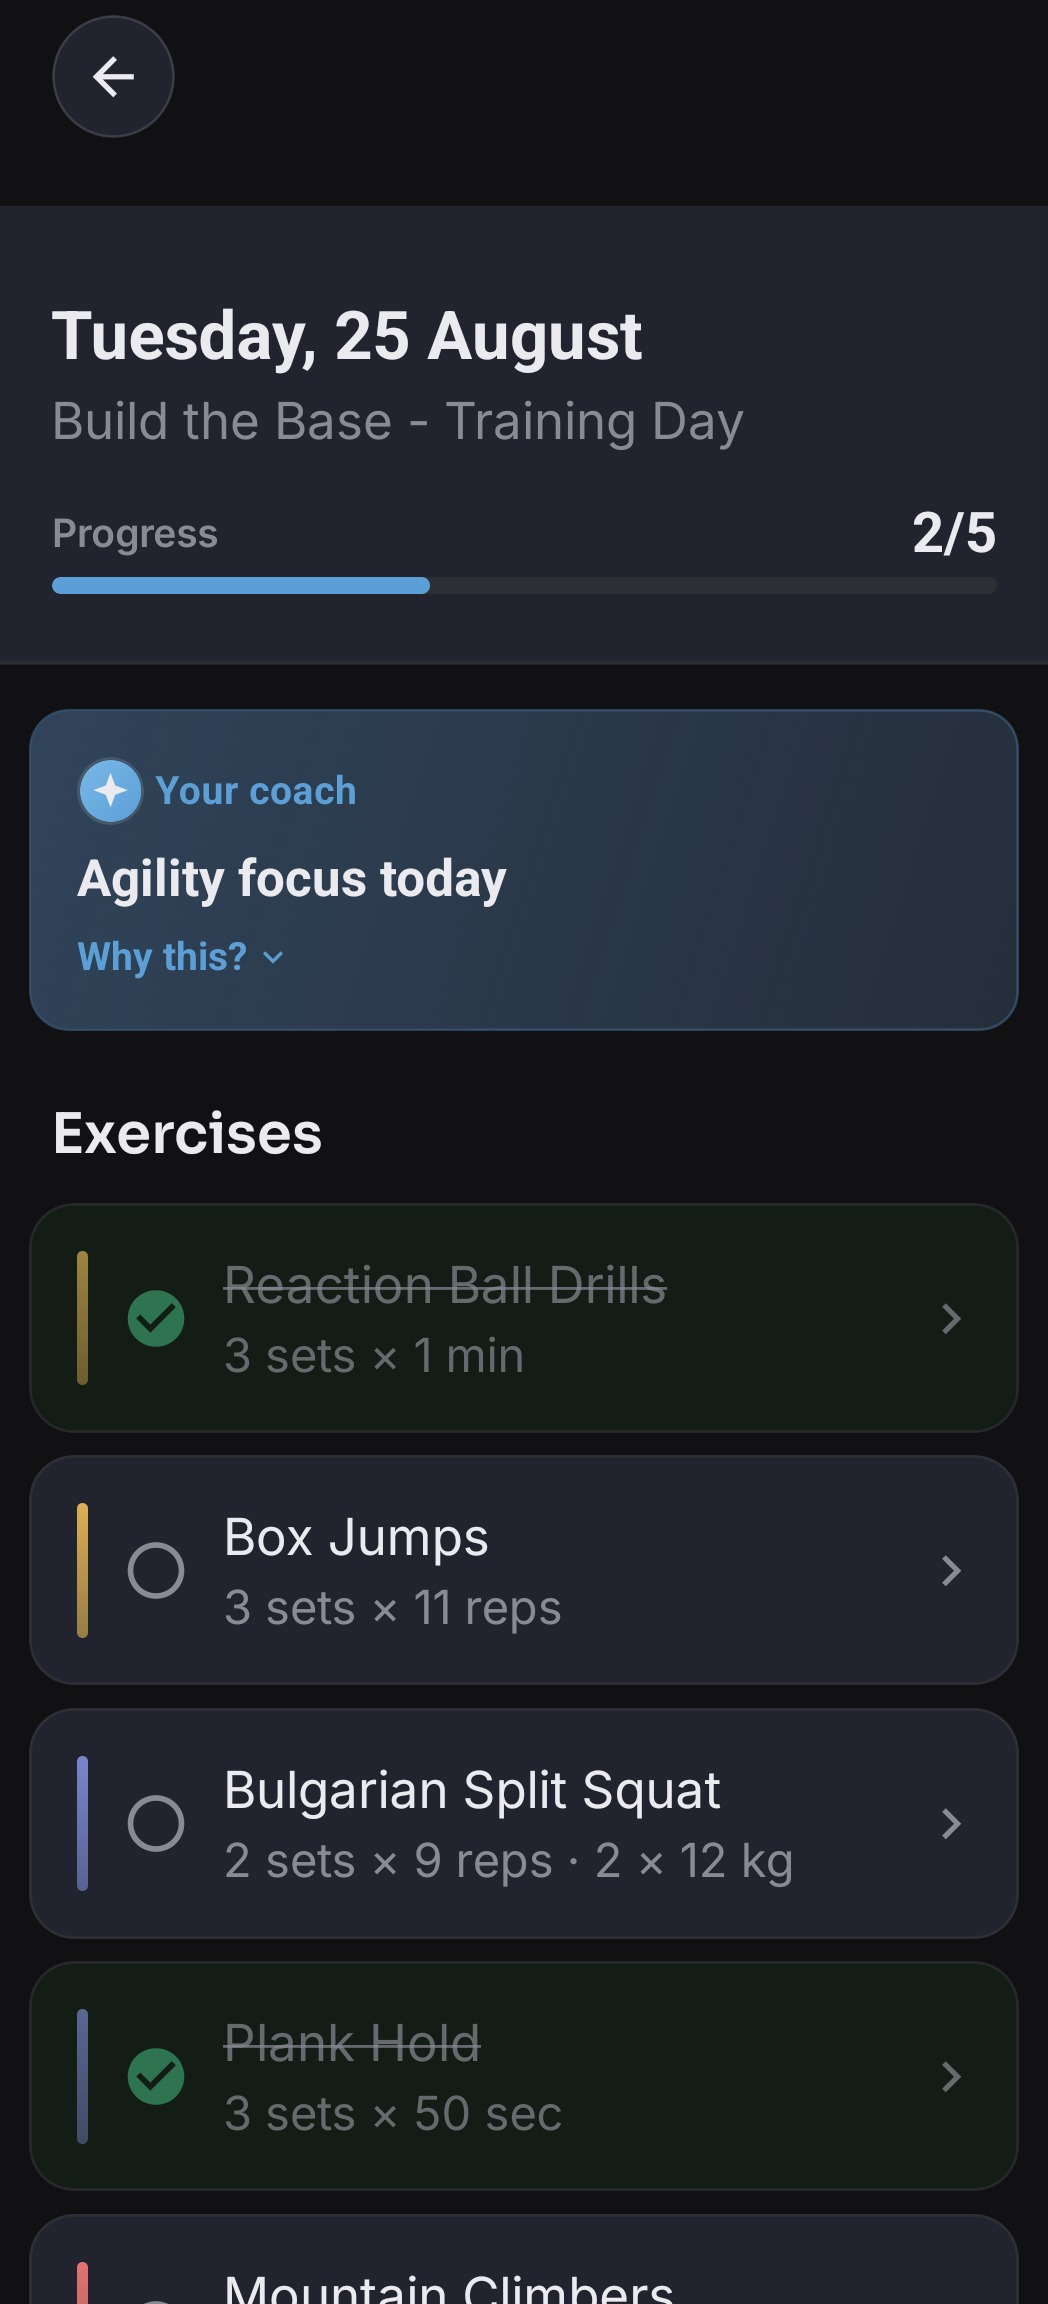
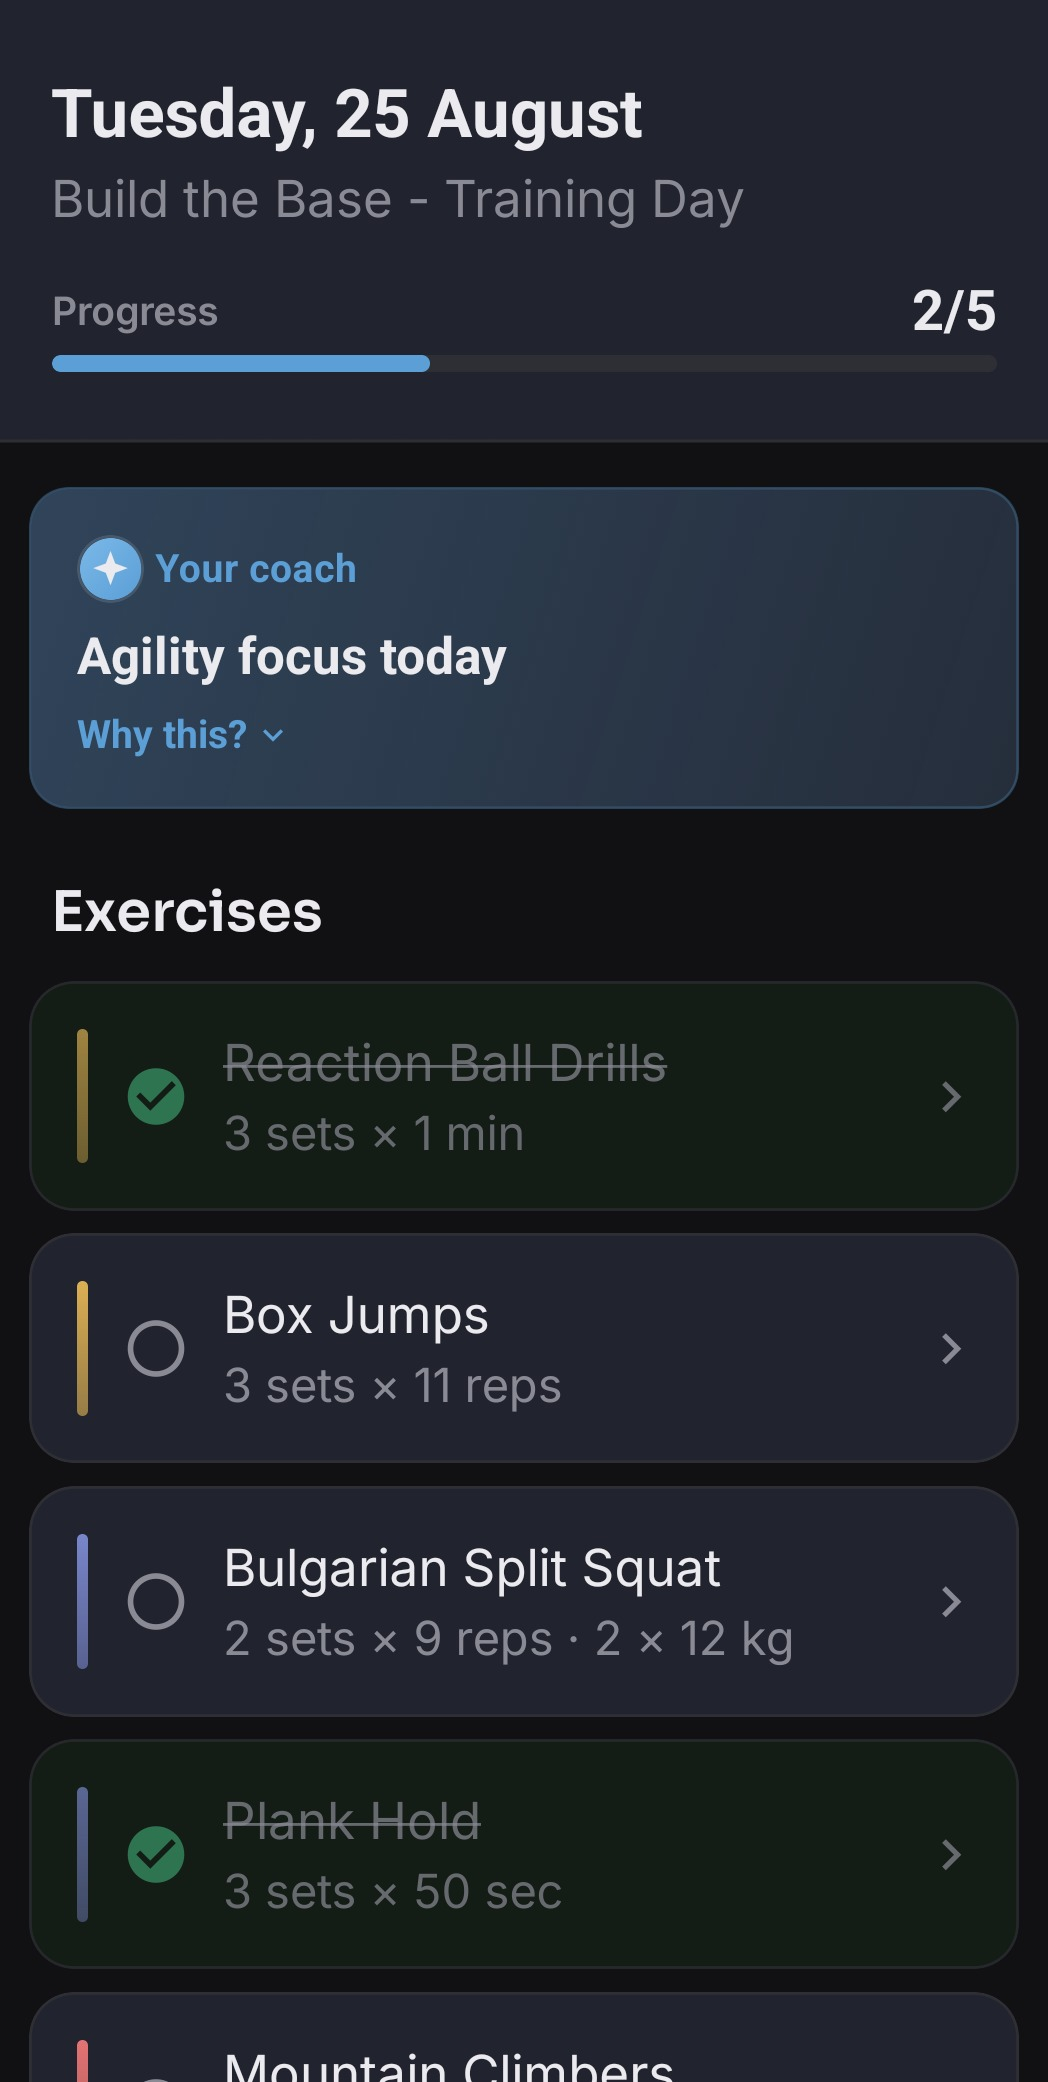
Crop the back arrows off every capture that had one
home 01-04 and progress 03-04 all opened on a back arrow. It is navigation
furniture - it says someone is tapping around an app rather than showing the
app - and at 594px wide it is a grey smudge in the corner of the slide.

Each is re-cropped above it, landing in the flat header below the arrow rather
than at a fixed offset: 318 for the session screens, 275 for the Progress
details, 245 for home/01 which is a different source size. On a raw A52s
capture the arrow sits at rows 154-191 every time.

Five of the six are re-cropped from their raws, so no extra JPEG generation.
home/01 has no raw and was re-cropped from its own file with --side 0, since
the sides were already off.

Bottom cuts preserved: home/04 still stops above Daily Stretching, progress/04
still stops above the Share button.

The captures are shorter now, so they bleed less far past the band - still past
it, just not to the frame edge. Rule written into the screens README.

diff --git a/assets/screens/README.md b/assets/screens/README.md
@@ -53,8 +53,8 @@ with different content, and the carousel stops looking like the same app twice.
 Two have been cut for exactly this: a diet capture with Today's Log expanded,
 and a home capture scrolled past the date header.
 
-    home        starts at the back arrow, date, session name, coach card,
-                then the Exercises list
+    home        starts at the date, session name, coach card, then the
+                Exercises list
     diet        calorie card, three macro tiles, Add food, Today's Log
                 COLLAPSED, Nutrition Tips in view
 
@@ -113,6 +113,12 @@ python prep-screen.py raw.png out.jpg --top 185              # cut deeper
 It takes the status bar off the top and the scroll indicator off the sides, and
 leaves the bottom alone by default, because the template runs the screenshot off
 the foot of the slide anyway.
+
+**No back arrows.** A detail screen puts one top-left, and it is navigation
+furniture - it says "this person is tapping around an app" rather than showing
+the app. Cut above it with `--top`: on the A52s the arrow sits at rows 154-191
+of a raw capture, with flat header under it, so 318 works for a session screen
+and 275 for a Progress detail. The whole set is cropped this way.
 
 `--bottom N` is for when something at the foot of the screen has to go rather
 than be bled off - a Share button, or a section that belongs to a different part
